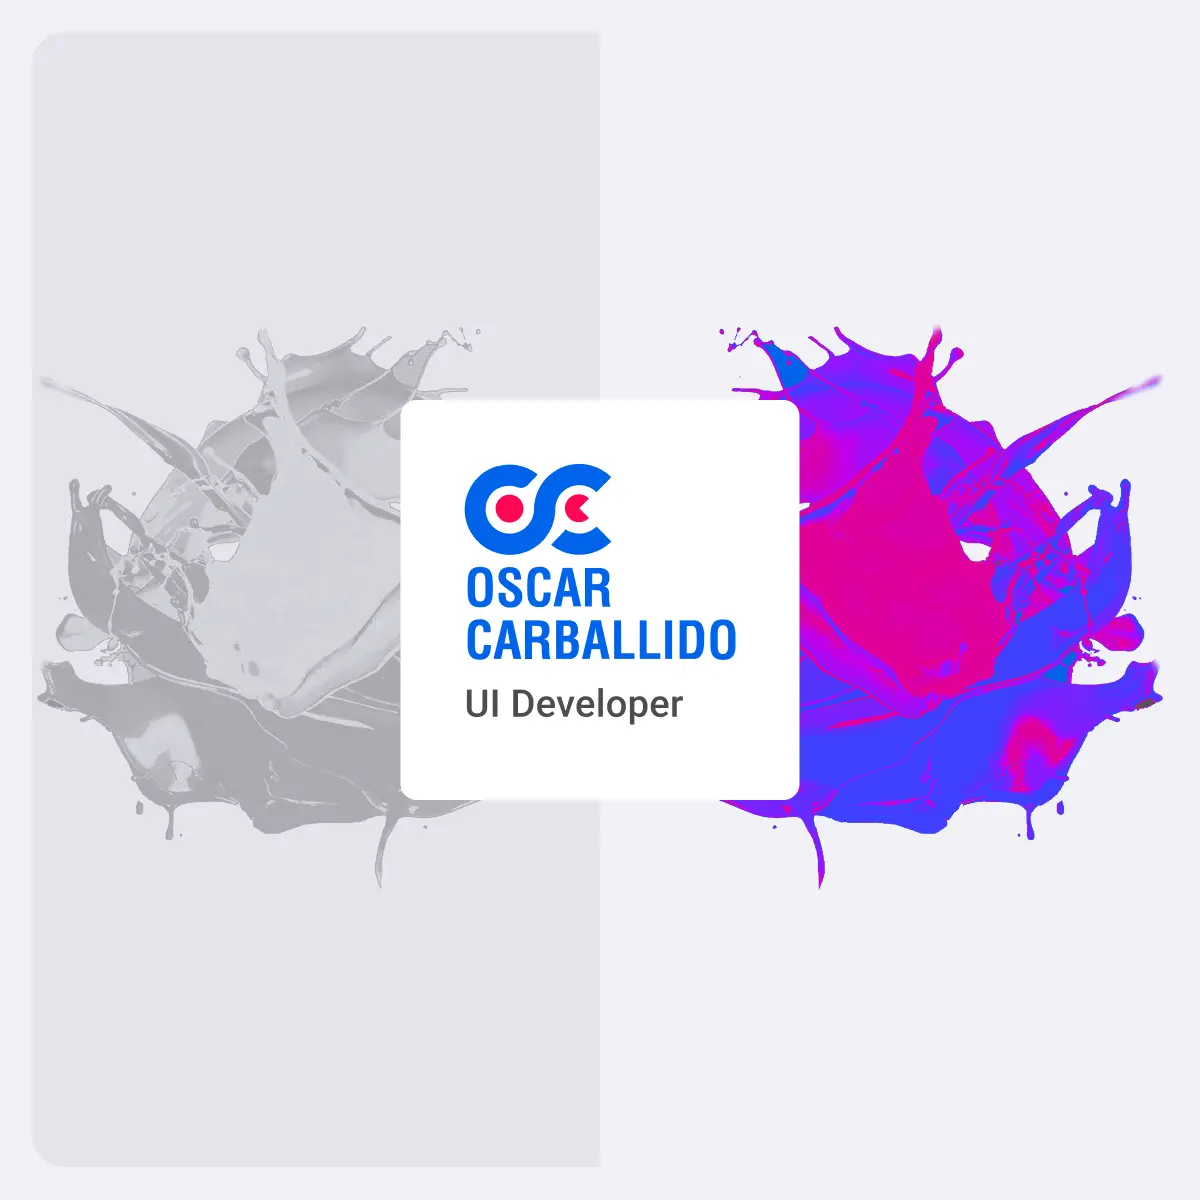
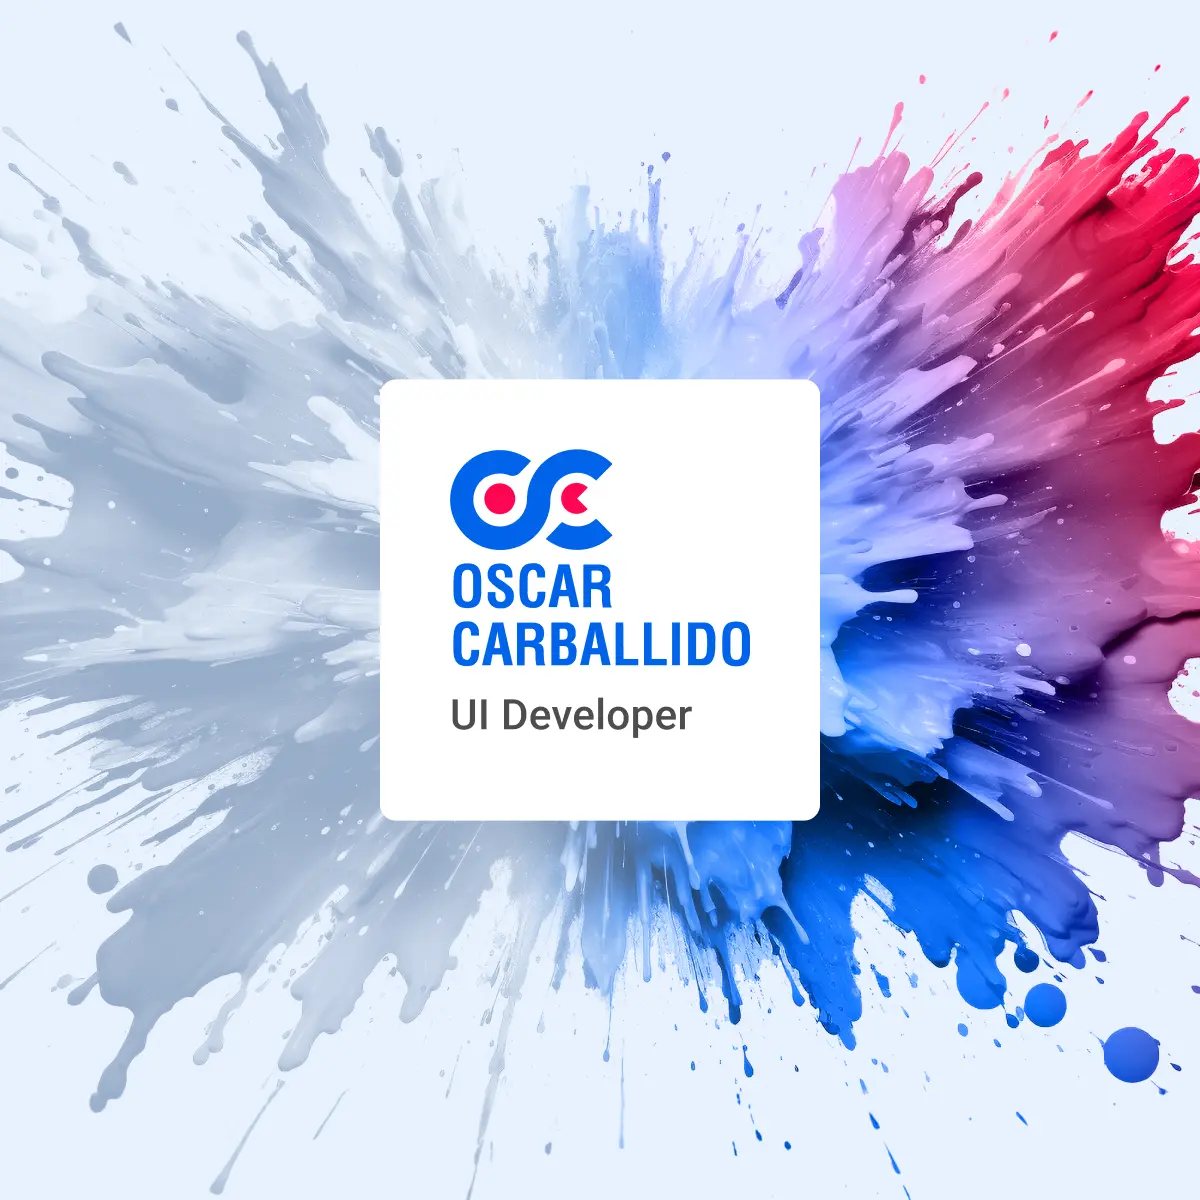
drawer updated

diff --git a/src/components/organisms/mnu-drawer/index.tsx b/src/components/organisms/mnu-drawer/index.tsx
@@ -10,7 +10,7 @@ type DrawerProps = {
 const OcMenuDrawer = ({ isMenuOpen, handleMobileMenu, path }: DrawerProps) => {
 	return (
 		<div
-			className={`fixed w-full h-full bg-white flex justify-center items-center bg-[url('/static/appbar/mobile-menu-bg.webp')] bg-no-repeat bg-center transition-all left-0 top-0 duration-300 z-50 ${
+			className={`fixed w-full h-full bg-(--background-light) flex justify-center items-center bg-[url('/static/splash-01-vertical.webp')] bg-no-repeat bg-center bg-cover transition-all left-0 top-0 duration-300 z-50 ${
 				isMenuOpen ? 'ranslate-x-0' : '-translate-x-full'
 			}`}
 			onClick={handleMobileMenu}
